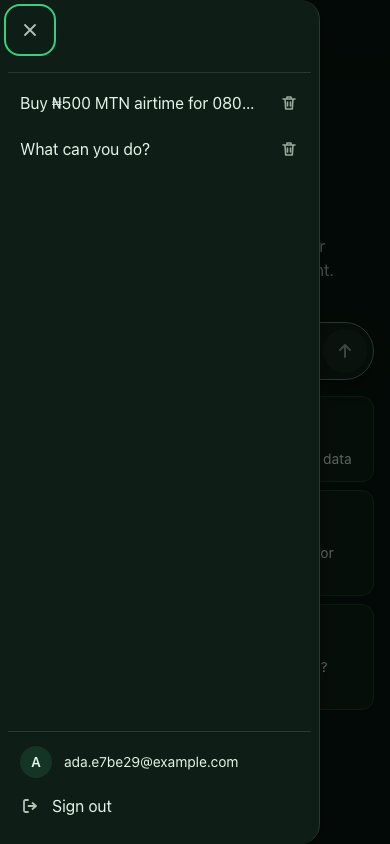
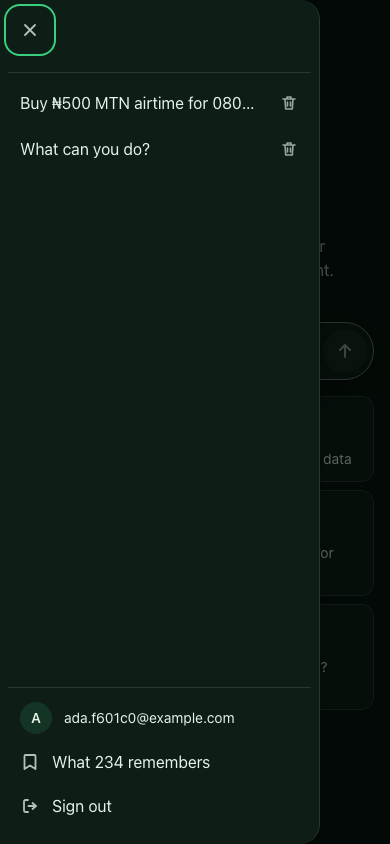
Put the memory sheet beside the drawer, not inside it
The drawer's own dialog is meant to be the only one in it (the sign-in suite finds it by that), so the sheet is a
sibling element that the drawer's button opens. The signed-in drawer's screenshots show the new entry.

Changed region(s): [[0.0615, 0.8934, 0.6154, 0.9242], [0.1538, 0.8318, 0.6154, 0.8626]]

diff --git a/host/src/chat/static/chat/memory.js b/host/src/chat/static/chat/memory.js
@@ -1,7 +1,8 @@
 // SPDX-License-Identifier: AGPL-3.0-or-later
-// <chat-memory> is "What 234 remembers" in the chats drawer of a signed-in person: their notes by kind, a title or
-// a line changed in place, a note deleted with an Undo, a copy to keep, and everything deleted. The server holds
-// the notes; this element shows them and asks for each change.
+// <chat-memory> is the sheet "What 234 remembers" of a signed-in person, opened from a button in the chats drawer:
+// their notes by kind, a title or a line changed in place, a note deleted with an Undo, a copy to keep, and
+// everything deleted. The server holds the notes; this element shows them and asks for each change. It sits beside
+// the drawer, not inside it, so the drawer's own dialog stays the only one in it.
 import { postJson } from "./http.js";
 import { instance } from "./render.js";
 
@@ -22,11 +23,23 @@ customElements.define(
       this.status = this.querySelector('[data-slot="status"]');
       this.groups = this.querySelector('[data-slot="groups"]');
       this.empty = this.querySelector('[data-slot="empty"]');
-      this.opener = this.querySelector('[data-action="open-memory"]');
       this.addEventListener("click", (event) => this.#clicked(event));
       this.addEventListener("submit", (event) => this.#saved(event));
-      this.dialog.addEventListener("close", () => this.opener.focus());
+      this.dialog.addEventListener("close", () => this.#opener()?.focus());
+      document.addEventListener("click", this.#opens);
     }
+
+    disconnectedCallback() {
+      document.removeEventListener("click", this.#opens);
+    }
+
+    #opener() {
+      return document.querySelector('[data-action="open-memory"]');
+    }
+
+    #opens = (event) => {
+      if (event.target.closest('[data-action="open-memory"]')) this.open();
+    };
 
     async open() {
       this.#say("");
@@ -84,7 +97,6 @@ customElements.define(
       const row = event.target.closest('[data-slot="row"]');
       if (event.target === this.dialog || action === "close-memory") return this.dialog.close();
       const run = {
-        "open-memory": () => this.open(),
         edit: () => this.#edit(row),
         cancel: () => this.#load(),
         forget: () => this.#forget(row),

diff --git a/host/src/accounts/templates/accounts/_account.html b/host/src/accounts/templates/accounts/_account.html
@@ -5,7 +5,9 @@
     <span class="grid size-8 shrink-0 place-items-center rounded-full bg-mint text-sm font-semibold text-ink" aria-hidden="true">{{ account.initial }}</span>
     <span class="min-w-0 flex-1 truncate text-sm text-ink" data-slot="email">{{ account.email }}</span>
   </div>
-  {% include "chat/_memory.html" %}
+  <button type="button" data-action="open-memory" class="focus-ring flex min-h-11 w-full cursor-pointer items-center gap-3 rounded-control px-3 text-left text-ink hover:bg-sunken">
+    <svg viewBox="0 0 20 20" class="size-5 text-ink-2" fill="none" stroke="currentColor" stroke-width="1.8" stroke-linecap="round" stroke-linejoin="round" aria-hidden="true"><path d="M5.500 3h9a1 1 0 0 1 1 1v13l-5.500-3.500L4.500 17V4a1 1 0 0 1 1-1z"/></svg>What 234 remembers
+  </button>
   <button type="button" data-action="sign-out" class="focus-ring flex min-h-11 w-full cursor-pointer items-center gap-3 rounded-control px-3 text-left text-ink hover:bg-sunken disabled:cursor-default disabled:opacity-60">
     <svg viewBox="0 0 20 20" class="size-5 text-ink-2" fill="none" stroke="currentColor" stroke-width="1.8" stroke-linecap="round" stroke-linejoin="round" aria-hidden="true"><path d="M8 4H5.500A1.500 1.500 0 0 0 4 5.500v9A1.500 1.500 0 0 0 5.500 16H8M12.500 7 16 10l-3.500 3M16 10H8.500"/></svg>Sign out
   </button>

diff --git a/host/src/chat/templates/chat/_memory.html b/host/src/chat/templates/chat/_memory.html
@@ -1,7 +1,4 @@
 <chat-memory class="block" data-url="{% url 'chat:memory' %}" data-edit-url="{% url 'chat:memory-edit' '0000000000000000' %}" data-forget-url="{% url 'chat:memory-forget' '0000000000000000' %}" data-undo-url="{% url 'chat:memory-undo' %}" data-delete-all-url="{% url 'chat:memory-delete-all' %}">
-  <button type="button" data-action="open-memory" class="focus-ring flex min-h-11 w-full cursor-pointer items-center gap-3 rounded-control px-3 text-left text-ink hover:bg-sunken">
-    <svg viewBox="0 0 20 20" class="size-5 text-ink-2" fill="none" stroke="currentColor" stroke-width="1.8" stroke-linecap="round" stroke-linejoin="round" aria-hidden="true"><path d="M5.500 3h9a1 1 0 0 1 1 1v13l-5.500-3.500L4.500 17V4a1 1 0 0 1 1-1z"/></svg>What 234 remembers
-  </button>
   <dialog aria-labelledby="memory-title" class="m-auto max-h-[calc(100dvh-2rem)] w-[min(calc(100%-2rem),28rem)] overflow-hidden rounded-card border border-line bg-raised p-0 text-ink shadow-soft backdrop:bg-scrim">
     <div class="flex max-h-[calc(100dvh-2rem)] flex-col">
       <div class="flex items-center justify-between gap-2 border-b border-line py-1 pl-4 pr-1">

diff --git a/host/src/chat/templates/chat/chat.html b/host/src/chat/templates/chat/chat.html
@@ -66,6 +66,7 @@
   </div>
 
   {% include "chat/_sheet.html" %}
+  {% if account %}{% include "chat/_memory.html" %}{% endif %}
 
   <template data-kind="user">{% include "chat/_item.html#user" %}</template>
   <template data-kind="assistant">{% include "chat/_item.html#assistant" %}</template>

diff --git a/docs/memory.md b/docs/memory.md
@@ -89,7 +89,7 @@ Groups come in that fixed order, newest use first within a group (`last_used` is
 | `memory_index`, no notes (the HTTP call and the Worker alone) | 5.1 / 7.7 / 41.2 |
 | `recall` by words, 200 notes | 5.8 / 8.1 / 13.2 |
 
-(two more runs gave 7.7 / 10.3 for the index at 200 notes). So the query and the rendering cost about 2.5 ms over the call itself.
+(two other runs gave 7.3 / 8.6 and 7.7 / 10.3 for the index at 200 notes). So the query and the rendering cost about 2.5 ms over the call itself.
 
 ### In the prompt
 
